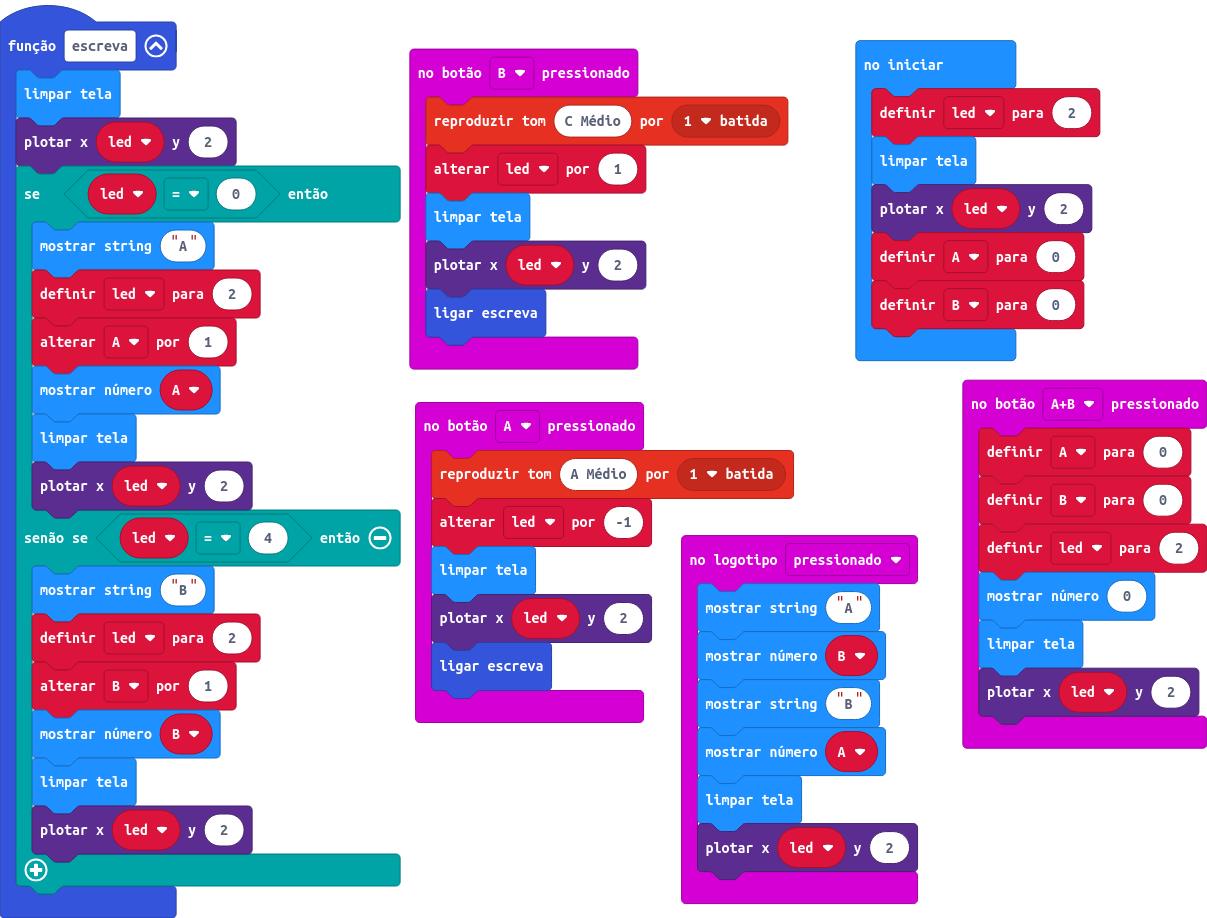
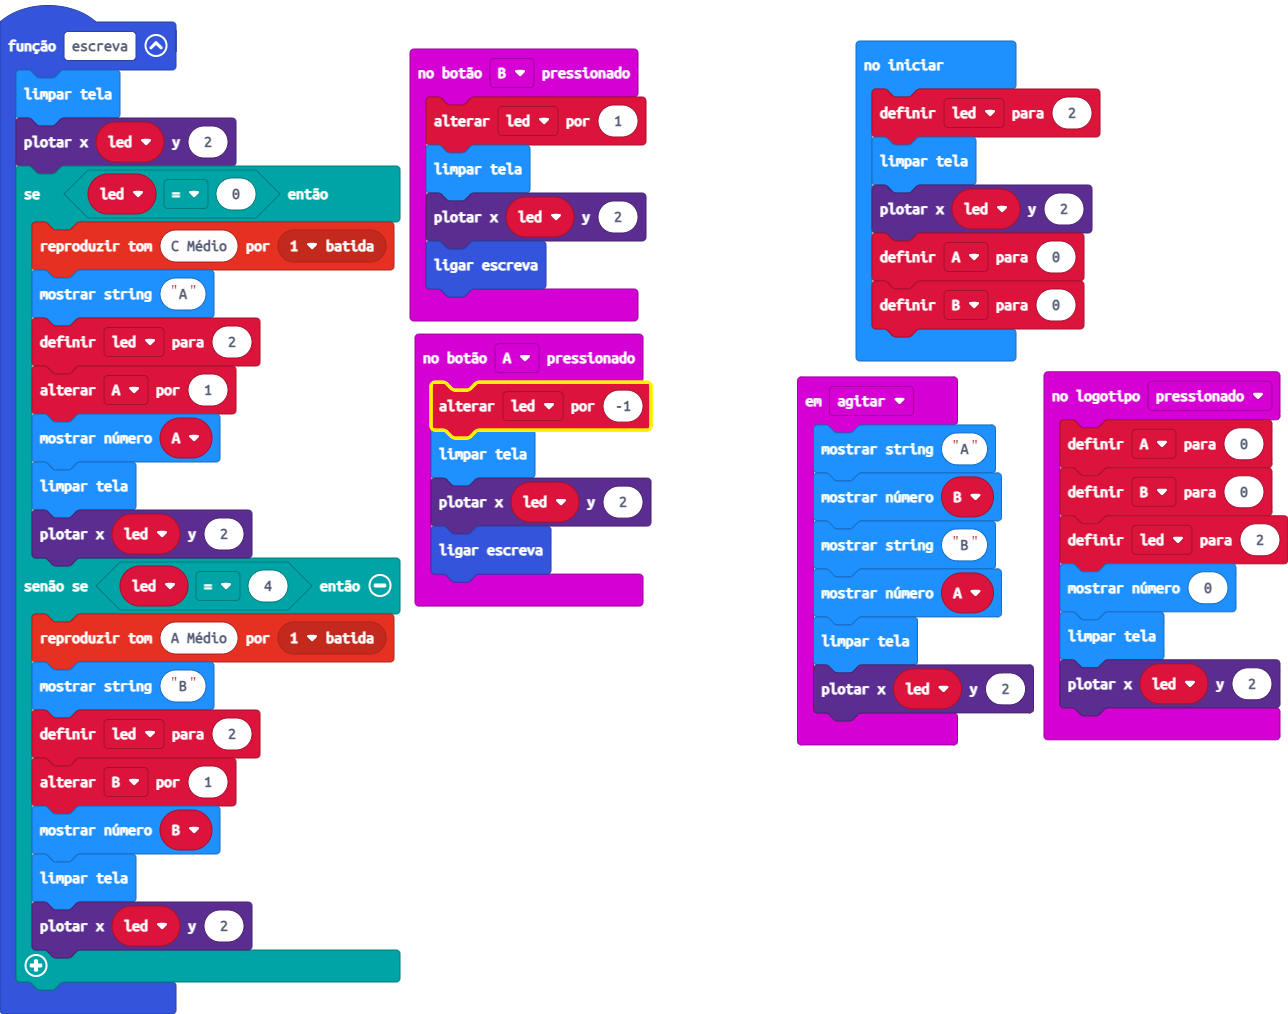
Atualizar 'main.blocks, main.ts'

diff --git a/main.ts b/main.ts
@@ -2,6 +2,7 @@ function escreva () {
     basic.clearScreen()
     led.plot(led2, 2)
     if (led2 == 0) {
+        music.playTone(262, music.beat(BeatFraction.Whole))
         basic.showString("A")
         led2 = 2
         A += 1
@@ -9,6 +10,7 @@ function escreva () {
         basic.clearScreen()
         led.plot(led2, 2)
     } else if (led2 == 4) {
+        music.playTone(440, music.beat(BeatFraction.Whole))
         basic.showString("B")
         led2 = 2
         B += 1
@@ -18,21 +20,6 @@ function escreva () {
     }
 }
 input.onLogoEvent(TouchButtonEvent.Pressed, function () {
-    basic.showString("A")
-    basic.showNumber(B)
-    basic.showString("B")
-    basic.showNumber(A)
-    basic.clearScreen()
-    led.plot(led2, 2)
-})
-input.onButtonPressed(Button.A, function () {
-    music.playTone(440, music.beat(BeatFraction.Whole))
-    led2 += -1
-    basic.clearScreen()
-    led.plot(led2, 2)
-    escreva()
-})
-input.onButtonPressed(Button.AB, function () {
     A = 0
     B = 0
     led2 = 2
@@ -40,8 +27,21 @@ input.onButtonPressed(Button.AB, function () {
     basic.clearScreen()
     led.plot(led2, 2)
 })
+input.onButtonPressed(Button.A, function () {
+    led2 += -1
+    basic.clearScreen()
+    led.plot(led2, 2)
+    escreva()
+})
+input.onGesture(Gesture.Shake, function () {
+    basic.showString("A")
+    basic.showNumber(B)
+    basic.showString("B")
+    basic.showNumber(A)
+    basic.clearScreen()
+    led.plot(led2, 2)
+})
 input.onButtonPressed(Button.B, function () {
-    music.playTone(262, music.beat(BeatFraction.Whole))
     led2 += 1
     basic.clearScreen()
     led.plot(led2, 2)
